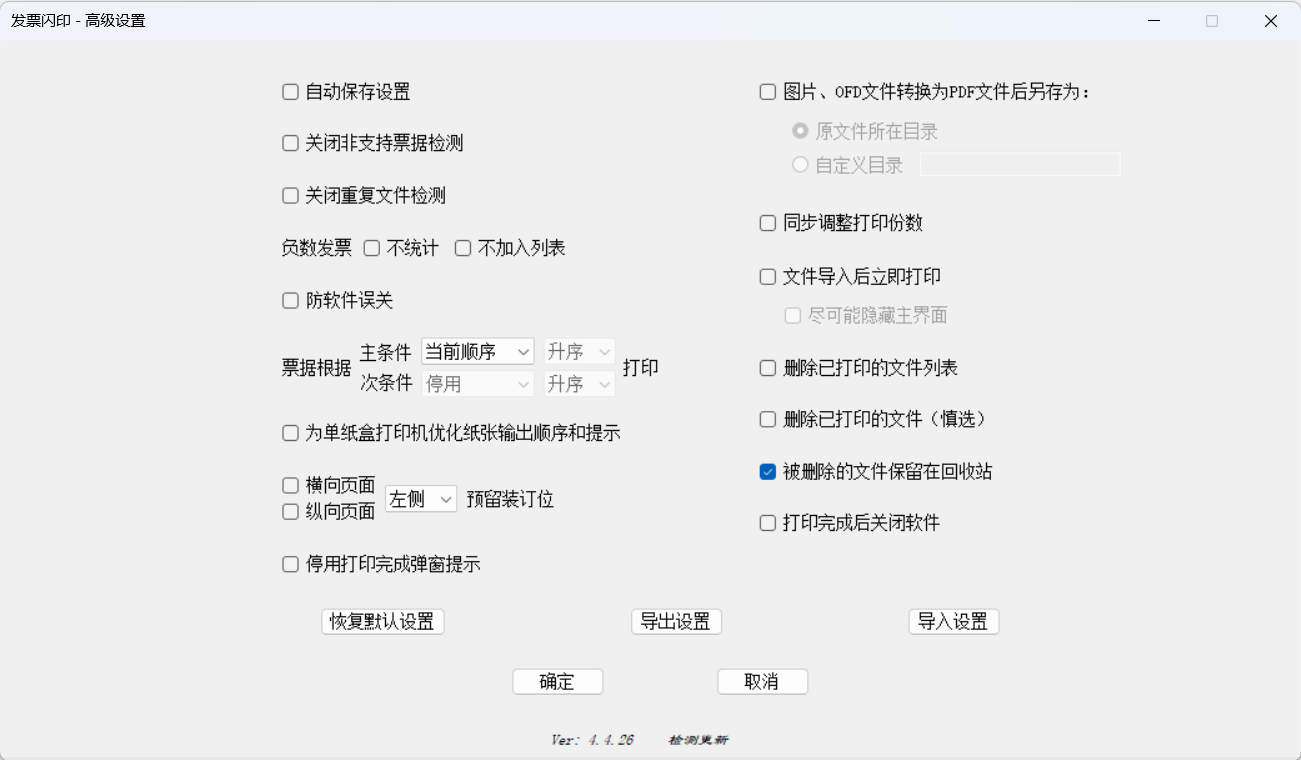
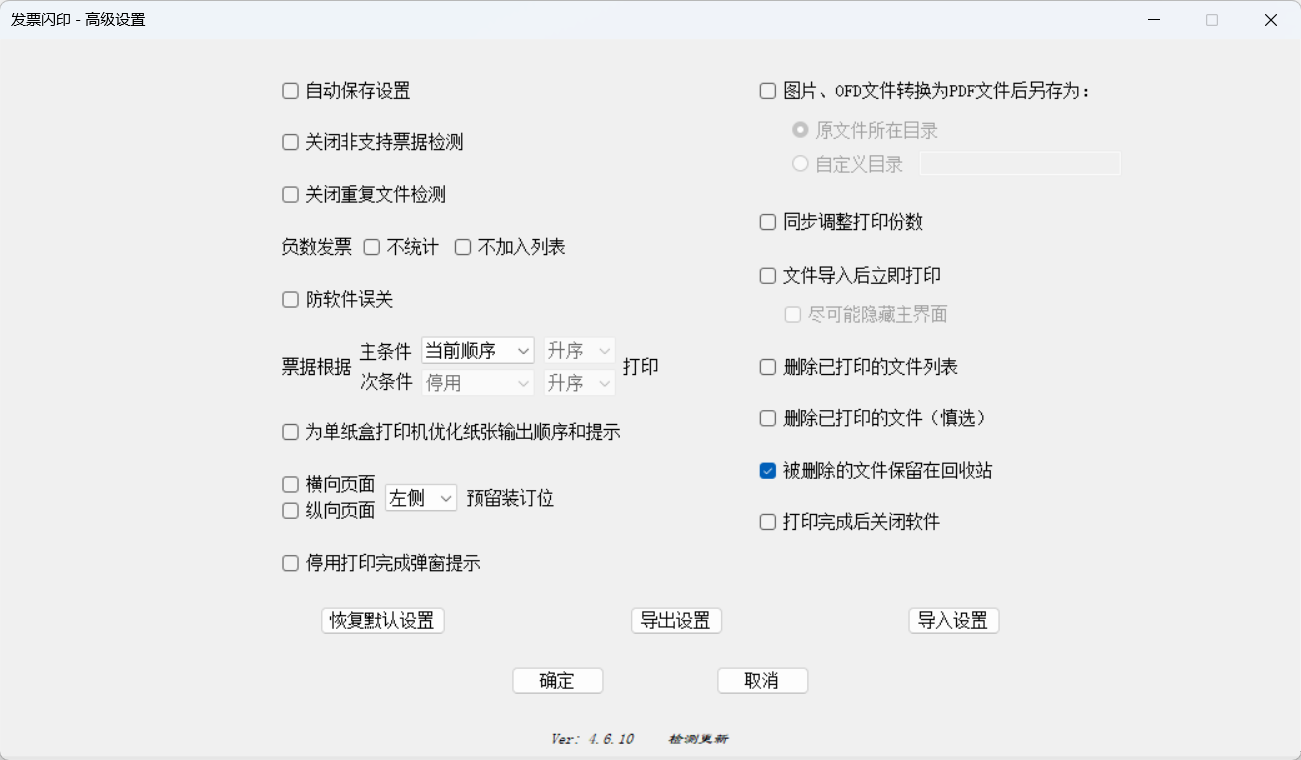
Add files via upload

diff --git a/index.html b/index.html
@@ -3,7 +3,7 @@
 <head>
 <meta charset="utf-8">
 <meta name="viewport" content="width=device-width, initial-scale=1.0">
-<title>2026-02-26 发票闪印</title>
+<title>2026-04-10 发票闪印</title>
 <link rel="stylesheet" href="style.css">
 <link rel="icon" href="img/ico.ico" type="image/x-icon"> 
 </head>
@@ -14,7 +14,10 @@
   <div class="img__container"> <img class="carousel__img" src="img/img2.png" alt="carousel-img" /> </div>
 </div>
 <br>
-<h2><a href="PrintPDF.7z" style="text-decoration: none;">发票闪印 4.4.26 立即下载</a></h2>
+<h2><a href="PrintPDF.7z" style="text-decoration: none;">发票闪印 4.6.10 立即下载</a></h2>
+	<p>&nbsp; &nbsp; &nbsp; &nbsp; 更新日志： </p>
+	<p>&nbsp; &nbsp; &nbsp; &nbsp; 1、FreeSpire.PDF更新至12.4.0 </p>
+	<p>&nbsp; &nbsp; &nbsp; &nbsp; 2、MiniExcel更新至1.43.0 </p>
 <br>
 <p>&nbsp; &nbsp; &nbsp; &nbsp; 因为单位有很多电子发票需要打印，每次打印都要用reader阅读器打开，选打印机，选份数，选纸张，选纸盒…… 当然，有些发票有清单页的，以上步骤请再重复一遍…… 多张发票请重复N遍…… </p>
 <p>&nbsp; &nbsp; &nbsp; &nbsp; 忍了多年，终于决心开发一款方便用于打印PDF发票的辅助工具，无需安装阅读器！</p>
@@ -33,6 +36,7 @@
 <p>&nbsp; &nbsp; &nbsp; &nbsp; 软件已知问题：</p>
 <p>&nbsp; &nbsp; &nbsp; &nbsp; 部分机器报毒：纯属误报，因为软件使用了代码混淆，加入白名单即可。</p>
 <p>&nbsp; &nbsp; &nbsp; &nbsp; 由于spire.pdf.dll免费版本的限制，OFD只支持前3页转换为PDF。</p>
+<p>&nbsp; &nbsp; &nbsp; &nbsp; Win7系统缺少Microsoft Print to PDF打印机，4.0版一些功能受限。</p>
 </body>
 <script src="carousel.js"></script>
 </html>